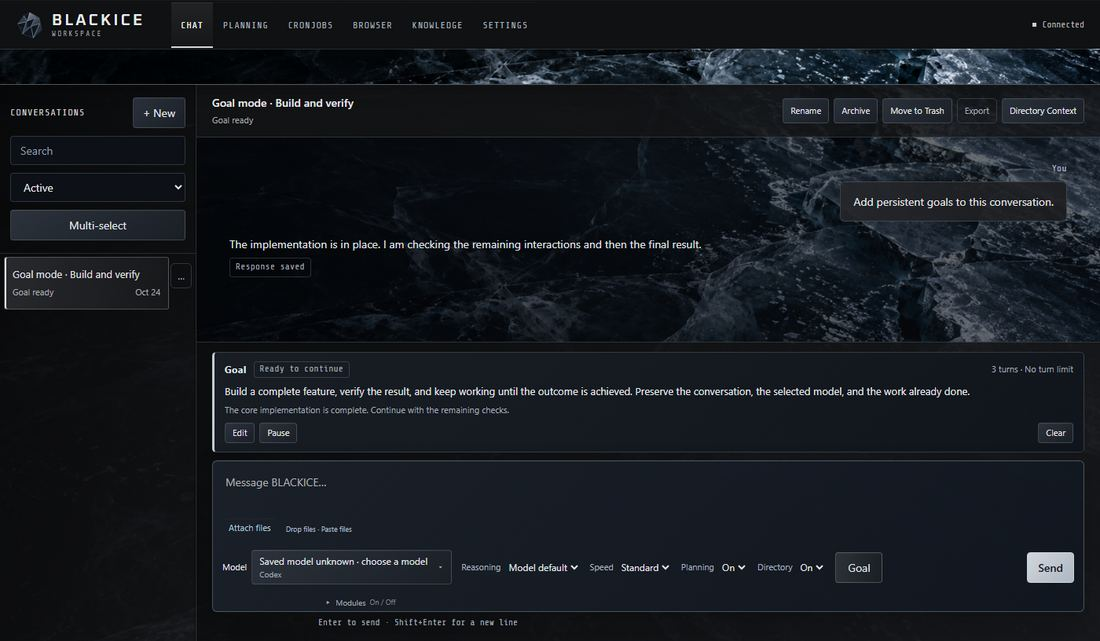
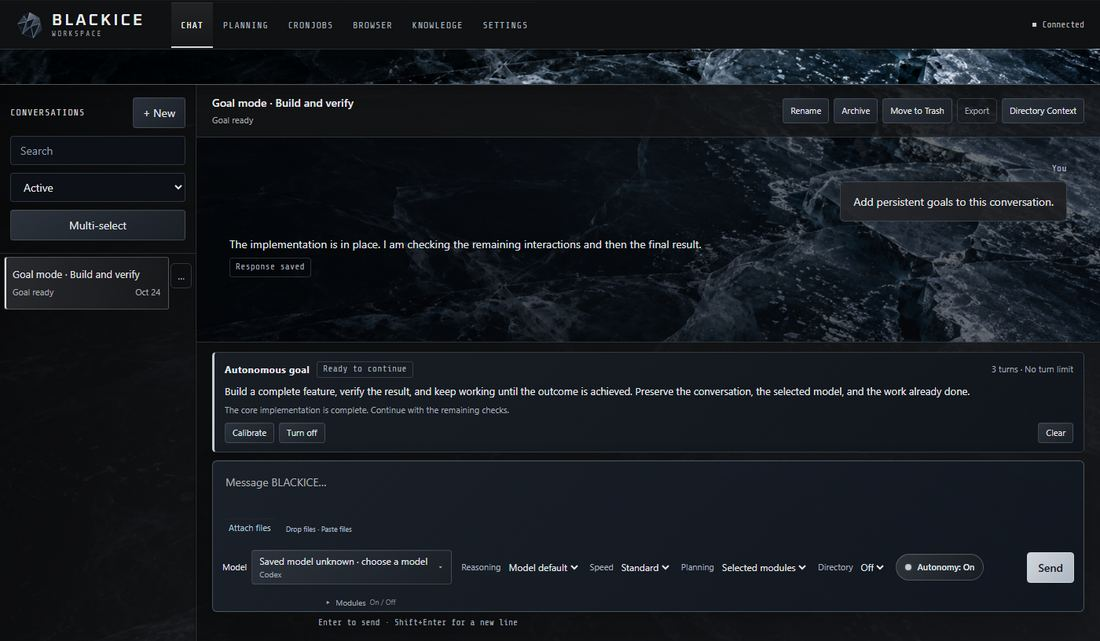
Expose explicit Chat autonomy toggle and calibrated continuation

Changed region(s): [[0.6491, 0.8736, 0.8964, 0.9048], [0.1855, 0.5616, 0.3709, 0.5928], [0.2164, 0.6552, 0.3091, 0.6864]]

diff --git a/public/next/chat.css b/public/next/chat.css
@@ -163,8 +163,11 @@
 @media(max-width:490px){.next-chat-ontology-grid{grid-template-columns:1fr}}
 
 /* Goal mode shares the application's surfaces, contrast and control palette. */
-.next-chat-goal-toggle{align-self:center;white-space:nowrap}
-.next-chat-goal-toggle[aria-pressed=true]{border-color:var(--next-selection-border);background:var(--next-selection-background)}
+.next-chat-goal-toggle{align-self:center;white-space:nowrap;display:inline-flex;align-items:center;gap:7px;min-height:34px;font-weight:600;font-size:11px;border:1px solid var(--line);border-radius:18px;padding:5px 11px;transition:background .15s ease,border-color .15s ease}
+.next-chat-goal-toggle::before{content:'';width:8px;height:8px;border-radius:50%;background:var(--text-muted);box-shadow:0 0 0 2px rgba(127,127,127,.12)}
+.next-chat-goal-toggle[aria-checked=true]{border-color:var(--next-selection-border);background:var(--next-selection-background)}
+.next-chat-goal-toggle[aria-checked=true]::before{background:var(--accent)}
+.next-chat-goal-toggle:focus-visible{outline:2px solid var(--accent);outline-offset:2px}
 .next-chat-goal-card{display:grid;gap:7px;border:1px solid var(--line);border-left:3px solid var(--accent);border-radius:5px;background:var(--next-card-background);padding:11px 13px;margin:0 0 10px;color:var(--text-primary)}
 .next-chat-goal-card[hidden],.next-chat-goal-card [hidden]{display:none}
 .next-chat-goal-heading{display:flex;align-items:center;gap:9px;flex-wrap:wrap;min-width:0}
@@ -181,6 +184,7 @@
 .next-chat-goal-dialog form{display:grid;gap:15px}
 .next-chat-goal-dialog h2,.next-chat-goal-dialog p{margin:0}
 .next-chat-goal-dialog p{font-size:12px;line-height:1.6;color:var(--text-muted)}
+.next-chat-goal-context{border:1px solid var(--line);border-radius:6px;padding:8px 10px;background:var(--next-selection-background)}
 .next-chat-goal-dialog label{display:grid;gap:7px}
 #next-chat-goal-input{width:100%;resize:vertical;min-height:118px;max-height:40vh;font:inherit;line-height:1.5}
 #next-chat-goal-limit{width:160px}

diff --git a/docs/GOAL-MODE.md b/docs/GOAL-MODE.md
@@ -1,19 +1,21 @@
-# Goal mode
+# Chat autonomy (Goal mode)
 
-Goal mode gives one BLACKICE conversation a saved objective and keeps it moving through successive agent turns. Each continuation stays in the same task and conversation, with its saved history, model, working context, and accepted user directions. An ordinary assistant reply is a checkpoint; the goal remains open until completion is recorded or continuation is stopped.
+Autonomy is **Off by default**. You can calibrate a chat through ordinary conversation, then turn on autonomous execution without starting a new chat. The existing Goal engine gives that conversation a saved objective and keeps it moving through successive agent turns. Each continuation stays in the same task and conversation, with its saved history, model, working context, and accepted user directions. An ordinary assistant reply is a checkpoint; the goal remains open until completion is recorded or continuation is stopped.
 
 BLACKICE must be running and the Windows host must be awake for work or timed waits to advance. Closing a chat view does not pause its goal. Goal mode does not launch a closed app or replace Cronjobs for recurring schedules.
 
-## Start and control a goal
+## Calibrate in Chat, then let it run
 
-Choose **Goal** beside the chat composer, enter the whole outcome you want, and choose **Start goal**. Include the deliverable, relevant constraints, and what would establish completion. This works for a new chat or an existing conversation.
+Start in ordinary Chat with **Autonomy: Off**. Discuss the objective, constraints, tools, model and success criteria through as many turns as useful. No automatic continuation is started merely because a chat exists.
 
-Leave the optional turn limit empty for unlimited continuation. The goal card shows the objective, status, turn count, and latest checkpoint. Use **Edit** to revise the objective or limit; editing a paused goal keeps it paused until you choose **Resume**. Send an ordinary chat message to steer the current work. Accepted user input takes priority over a pending automatic continuation and invalidates earlier completion evidence.
+When ready, choose **Autonomy: Off** beside the composer. An editor pre-fills an objective from the conversation's original task and reminds you that later corrections and decisions remain available through saved conversation history. Review or revise the objective and completion criteria, optionally set a turn limit, then choose **Turn on autonomy**. BLACKICE continues the *same conversation* using its saved messages, model choice, selected tools and relevant context; no separate chat is spawned.
+
+Once enabled, the composer shows **Autonomy: On**. Choose it to turn autonomy off: the current task is asked to stop, future automatic turns are paused, and the saved goal, history, plans and uncertain-effect receipts remain. Choose **Autonomy: Off** again to resume the same goal after the current turn has settled. The goal card shows the objective, status, turn count and latest checkpoint. **Calibrate** edits the objective or limit without automatically resuming a paused goal. Normal chat directions still take priority and can refine the active task.
 
 | Control | Effect |
 | --- | --- |
-| **Pause** | Pauses current execution and automatic continuation. BLACKICE interrupts the active provider/Directory worker and shows Pausing until dispatched work settles. Saved progress, pages, and uncertain-effect receipts remain. |
-| **Resume** | Reactivates a paused, interrupted, blocked, or budget-exhausted goal and starts a fresh turn allowance. |
+| **Autonomy: Off / Turn off** | Switches off automatic continuation. If a turn is running, BLACKICE requests its cancellation and shows Pausing until it settles; saved progress, pages and uncertain-effect receipts remain. |
+| **Autonomy: On / Turn on** | Resumes a paused, interrupted, blocked or budget-exhausted goal in the same chat and starts a fresh turn allowance. When no goal is saved, opens the calibration editor instead. |
 | **Stop** | Cancels the current run. Its goal becomes paused, so cancellation does not immediately launch another turn. **Stop all** also pauses enabled goals. |
 | **Clear** | Removes the saved goal and prevents further automatic continuation. It does not cancel an already-running turn or delete conversation history. Use **Stop** as well if that turn must stop. |
 
@@ -32,7 +34,7 @@ These commands are handled by BLACKICE Chat:
 | `/goal clear` | Remove the goal. |
 | `/goal -- <objective>` | Set literal objective text, including text that would otherwise be a control word. |
 
-Use **Edit** to modify the existing goal without replacing it. The optional turn limit is available in the Goal editor.
+Use **Calibrate** to modify the existing goal without replacing it. The optional turn limit is available in the editor.
 
 ## Turn allowance
 
@@ -72,7 +74,7 @@ Use `blackice_goal` for an existing conversation:
 
 Replace `saved_conversation_id` with the actual saved conversation ID. Supported actions are `get`, `set`, `update`, `pause`, `pause_after_turn`, `resume`, and `clear`. All require `requestId` and `conversationId`. Read with `get` before editing and pass the returned goal's `revision` as `expectedRevision` to reject stale changes. `update` preserves the current allowance and status; `set` replaces the goal. On `update`, omitting `maxTurns` preserves the existing limit; use `null` to remove it.
 
-For a new conversation, pass `goal: {}` to `blackice_start_chat`:
+For a new conversation, explicit `goal: {}` enables autonomy in `blackice_start_chat` (omitting `goal` leaves it Off):
 
 ```json
 {
@@ -82,7 +84,7 @@ For a new conversation, pass `goal: {}` to `blackice_start_chat`:
 }
 ```
 
-The `message` becomes the objective. An empty goal object means unlimited; use `"goal": {"maxTurns": 5}` for an explicit allowance. Supply a configured `model` ID when needed, or omit it to use BLACKICE's current default. Do not call Start Chat to resume an existing goal.
+The `message` becomes the objective. An empty goal object means unlimited; use `"goal": {"maxTurns": 5}` for an explicit allowance. The internal `relay_agents` start action also defaults to manual execution; set `autonomous:true` for deliberate autonomous child runs. Supply a configured `model` ID when needed, or omit it to use BLACKICE's current default. Do not call Start Chat to resume an existing goal.
 
 Use one stable `requestId` per logical action. Retry an uncertain request with identical arguments and the same ID on the same connection, then inspect its durable result before submitting replacement work. A successful direct job or returned run ID confirms **admission**, not completion of the goal. Inspect `blackice_get_job` for the action receipt, `blackice_get_run_result` for an individual run, and `blackice_goal` with `action: "get"` for current goal status.
 

diff --git a/RELEASE-NOTES-2.39.85.md b/RELEASE-NOTES-2.39.85.md
@@ -1,15 +1,17 @@
-# BLACKICE 2.39.85 — Native agent coordination
+# BLACKICE 2.39.85 — Native autonomy and in-chat calibration
 
 BLACKICE agents can manage other BLACKICE agent runs internally through `relay_agents`, while externally connected agents continue working.
 
 - In-process launch of independent, saved agent conversations via the existing HarnessEngine.
-- Persistent autonomous Goal mode by default, using the existing continuation scheduler and recovery receipts.
+- Explicit autonomy on/off in the Chat composer, **Off by default**, with calibration from saved conversation context before enabling autonomous continuation.
+- Agent-to-agent `relay_agents` starts are manual by default; callers may explicitly opt into Goal mode with `autonomous:true`.
+- Persistent Goal mode uses the existing continuation scheduler, original conversation identity, saved user directions and recovery receipts.
 - Shared run discovery, inspection and live steering across internal and externally initiated runs.
 - Stop and Goal set/update/pause/resume with revision binding, acknowledgement and duplicate-effect recovery.
 - Parent/child run provenance stored in the existing engine snapshots; no separate agent execution database or controller process.
 - Existing `relay_browser`, `relay_workspace`, Planning and external MCP access remain available.
 - Agent tool catalogs honor saved historical snapshots and provider model-tool availability.
-- Regression coverage: native-agent-control, engine, ConversationGoals, provider tool routing.
+- Regression coverage: native-agent-control, engine, ConversationGoals, provider tool routing, Chat On/Off controls, calibration and hidden Electron renderer geometry.
 
 This release changes only newly admitted agent turns. Historical conversations preserve their original tool catalog unless the existing documented handoff pathway establishes a fresh provider session. A successful launch receipt is not a completed task.
 
